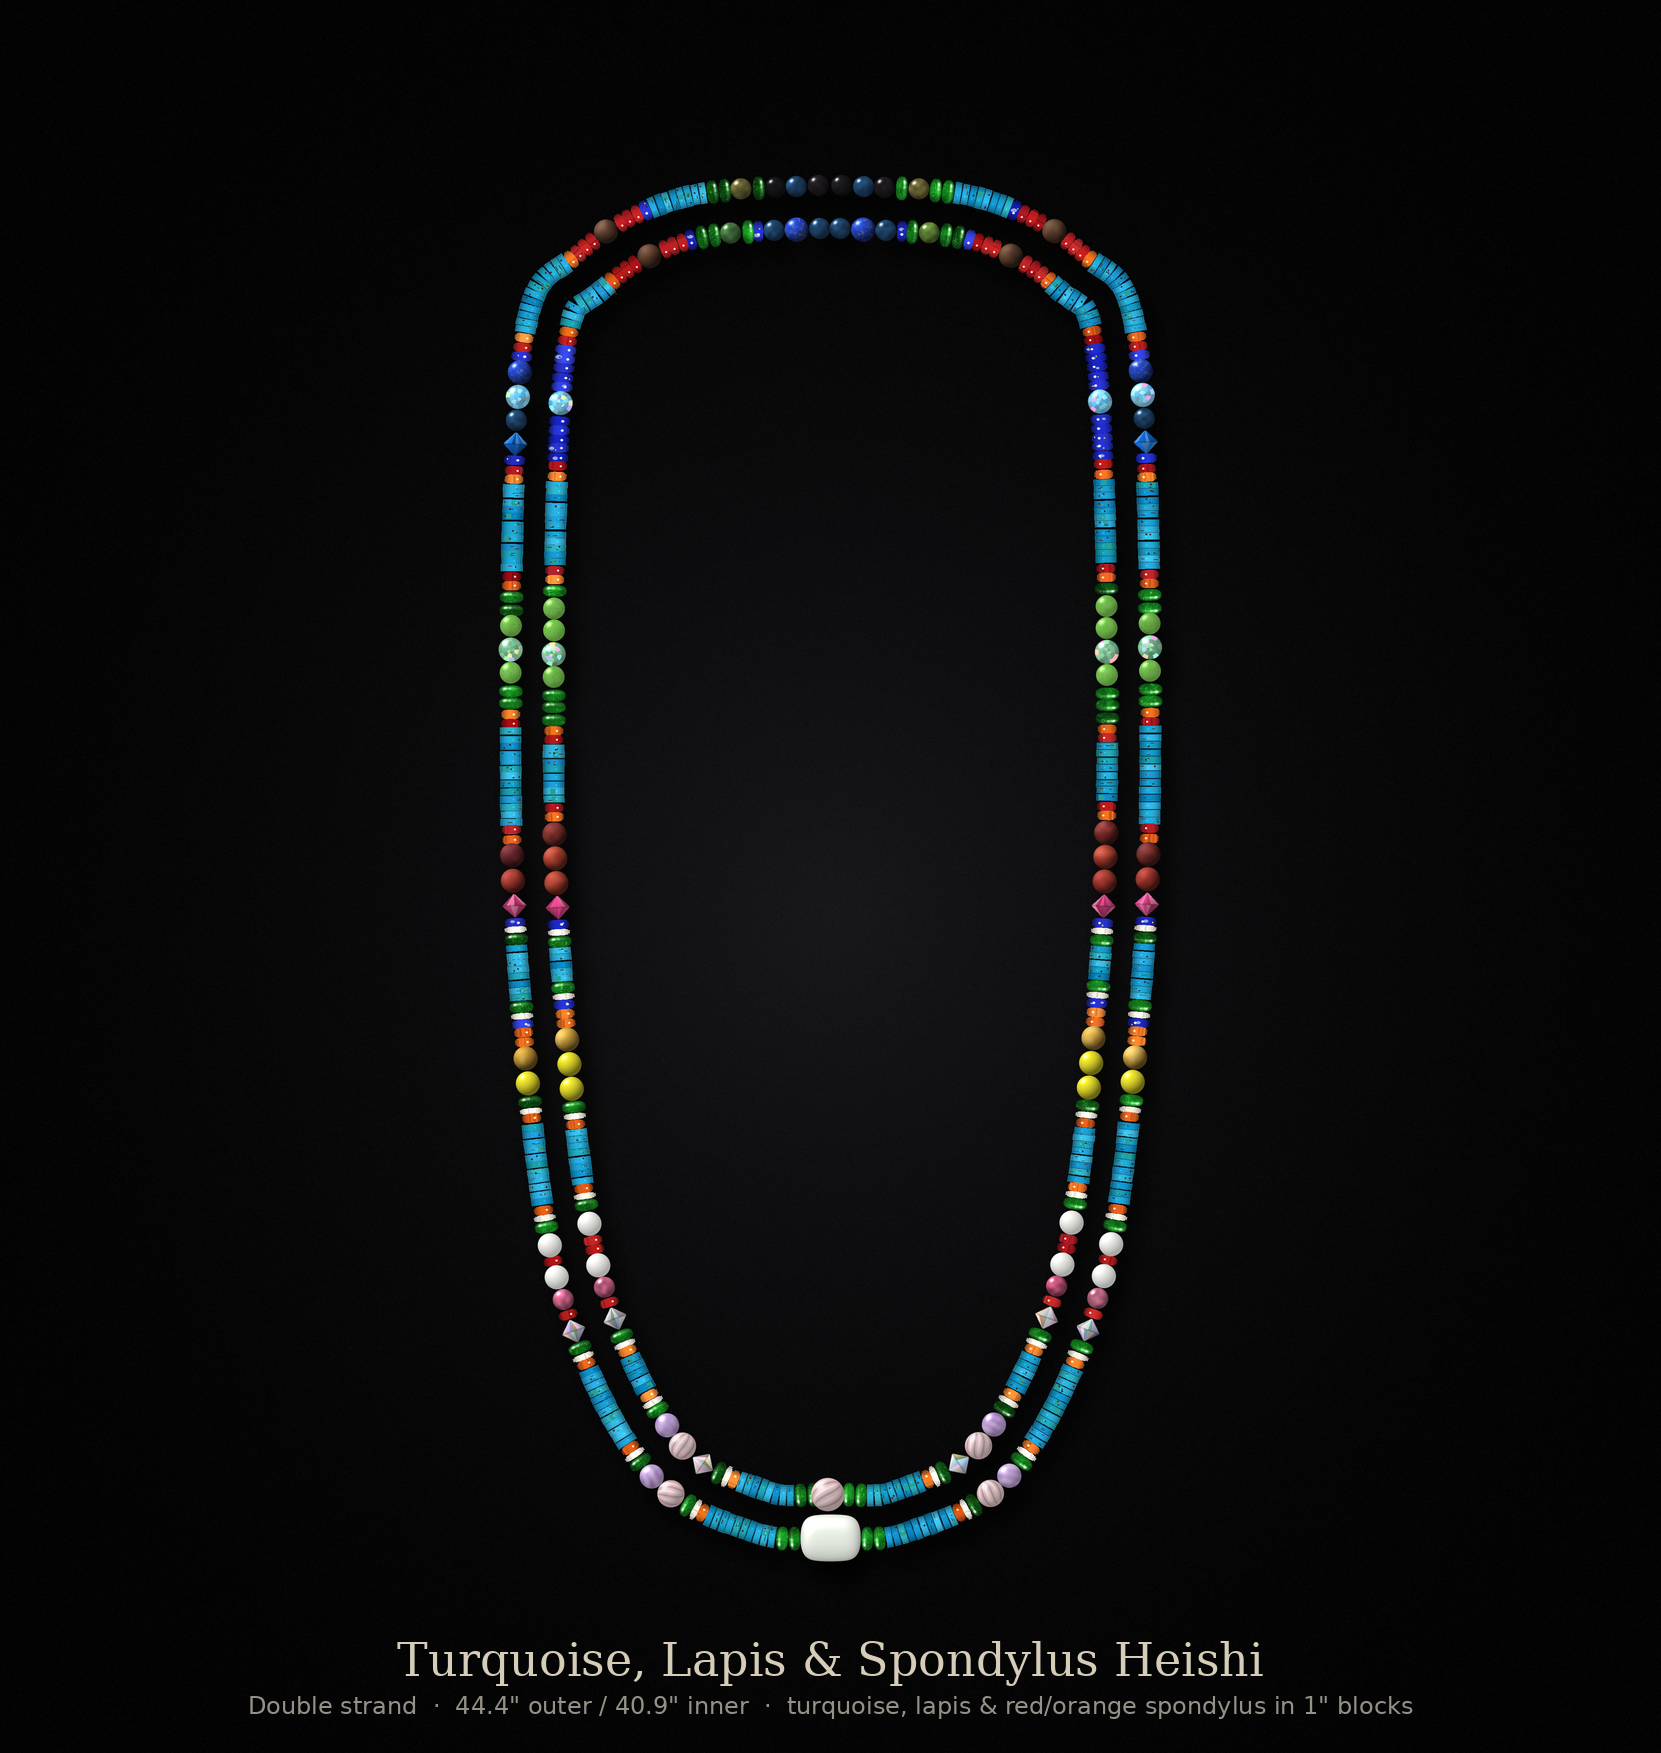
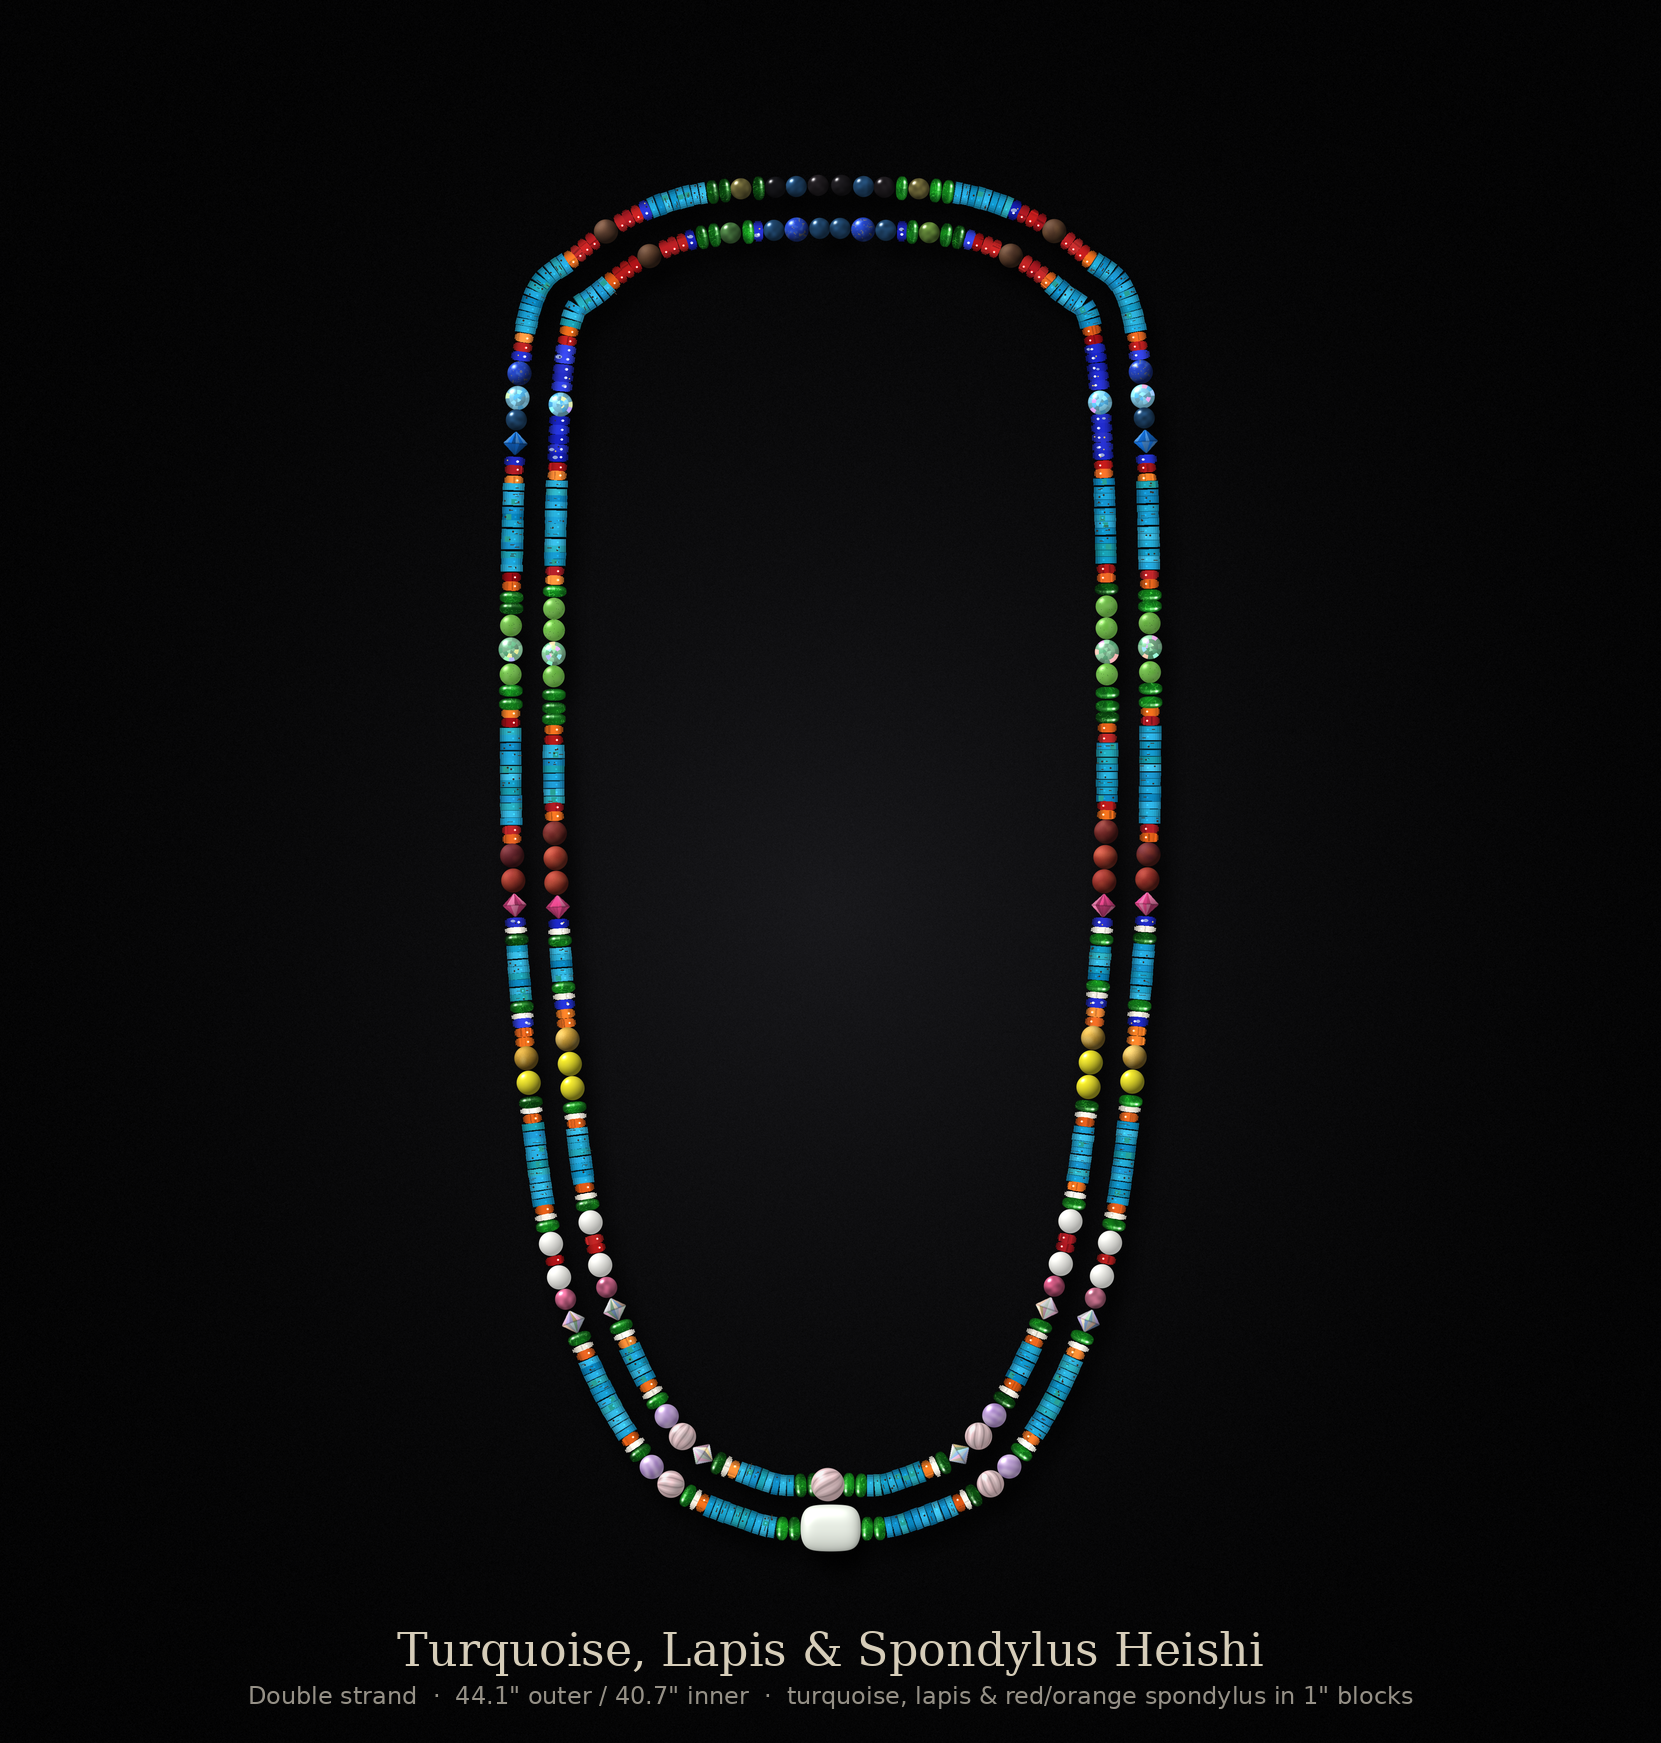
Version 5: remove the red above the white-section AB bicones; 44.1"
Claude-Session: https://claude.ai/code/session_014be1vF4Rdf8sv9Si75Gudv

Changed region(s): [[0.2763, 0.0929, 0.7062, 0.8985]]

diff --git a/necklace/render_necklace.py b/necklace/render_necklace.py
@@ -19,7 +19,8 @@ V5_EXT2 = 3.0 if V5 else 0.0             # v5: bottom band's lowest red glass be
 V5_EXT3 = 0.0                            # (red above the bicone removed again)             # v5: red spiny oyster above each mookaite-band rose bicone (+3 mm per side)
 V5_EXT4 = 7.0 if V5 else 0.0             # v5: a pink tourmaline moves from the outer to the inner bottom band (+7 mm per side)
 V5_EXT5 = 5 * 2.0 if V5 else 0.0         # v5: white conch at the 5 lower orange/green borders per strand side (+10 mm per side)
-C_OUT, GAP, BEAD_D = 42 * INCH + 2 * (V5_EXT + V5_EXT2 + V5_EXT3 + V5_EXT4 + V5_EXT5), (11.2 if EXTRAS else (14.0 if V2 else 10.0)), 7.0   # v2: room for 18 mm naga conch
+V5_EXT6 = -3.0 if V5 else 0.0            # v5: red above the white-section AB bicones removed (-3 mm per side)
+C_OUT, GAP, BEAD_D = 42 * INCH + 2 * (V5_EXT + V5_EXT2 + V5_EXT3 + V5_EXT4 + V5_EXT5 + V5_EXT6), (11.2 if EXTRAS else (14.0 if V2 else 10.0)), 7.0   # v2: room for 18 mm naga conch
 C_IN = C_OUT - 2 * math.pi * GAP    # inner strand: 8 mm smaller radius -> ~38"
 NSEG, BPS = 42, 16                  # 1 inch blocks, ~16 heishi (1.6 mm) per block
 
@@ -1212,13 +1213,13 @@ if V4:
             gaps = [f / 2] + [f] * len(STN)
             if V5:
                 # align band centres by height: use common fractions computed from the widest of each band pair
-                Hin = (s_in[-1] + HIDDEN_IN) / 2 - SZ[CENTRE[1]] / 2 - V5_EXT - V5_EXT2 - V5_EXT3 - V5_EXT4 - V5_EXT5   # layout at the old length
+                Hin = (s_in[-1] + HIDDEN_IN) / 2 - SZ[CENTRE[1]] / 2 - V5_EXT - V5_EXT2 - V5_EXT3 - V5_EXT4 - V5_EXT5 - V5_EXT6   # layout at the old length
                 Wmax = [max(sum(SZ[k] for k in b[0]), sum(SZ[k] for k in b[1])) for b in BANDS]
                 gapc = (Hin - sum(Wmax)) / (len(BANDS) + 0.5)
                 cen, acc = [], gapc / 2
                 for w in Wmax:
                     cen.append((acc + w / 2) / Hin); acc += w + gapc
-                Hs = H2 - cz - V5_EXT - V5_EXT2 - V5_EXT3 - V5_EXT4 - V5_EXT5                # layout at the old length; the extension goes in below the blue band
+                Hs = H2 - cz - V5_EXT - V5_EXT2 - V5_EXT3 - V5_EXT4 - V5_EXT5 - V5_EXT6                # layout at the old length; the extension goes in below the blue band
                 # turquoise gaps come from the unframed layout; the extra frame width is taken from the top section
                 Wmax0 = [max(sum(SZ[k] for k in b[0]), sum(SZ[k] for k in b[1])) for b in BANDS_PREV]
                 gapc0 = (Hin - sum(Wmax0)) / (len(BANDS_PREV) + 0.5)
@@ -1444,6 +1445,8 @@ if V4:
                 _tgt = sum(gaps[i] for i in (3, 4, 5, 6, 8)) / 5
                 _d = _tgt - gaps[7]; gaps[7] += _d; gaps[9] -= _d
                 STN[7], STN[8] = _cw(STN[7]), _cw(STN[8])   # whites added: necklace lengthened, turquoise runs unchanged
+                _k = STN[7].index("abbic"); assert STN[7][_k - 1] == "red"
+                del STN[7][_k - 1]                          # red above the AB bicone removed: necklace shorter, turquoise unchanged
                 print(f"v5 strand {st} swapped 7/8 gaps", [round(float(x), 1) for x in gaps])
             g = 0.0
             lap = LAP_BUDGET[st]
